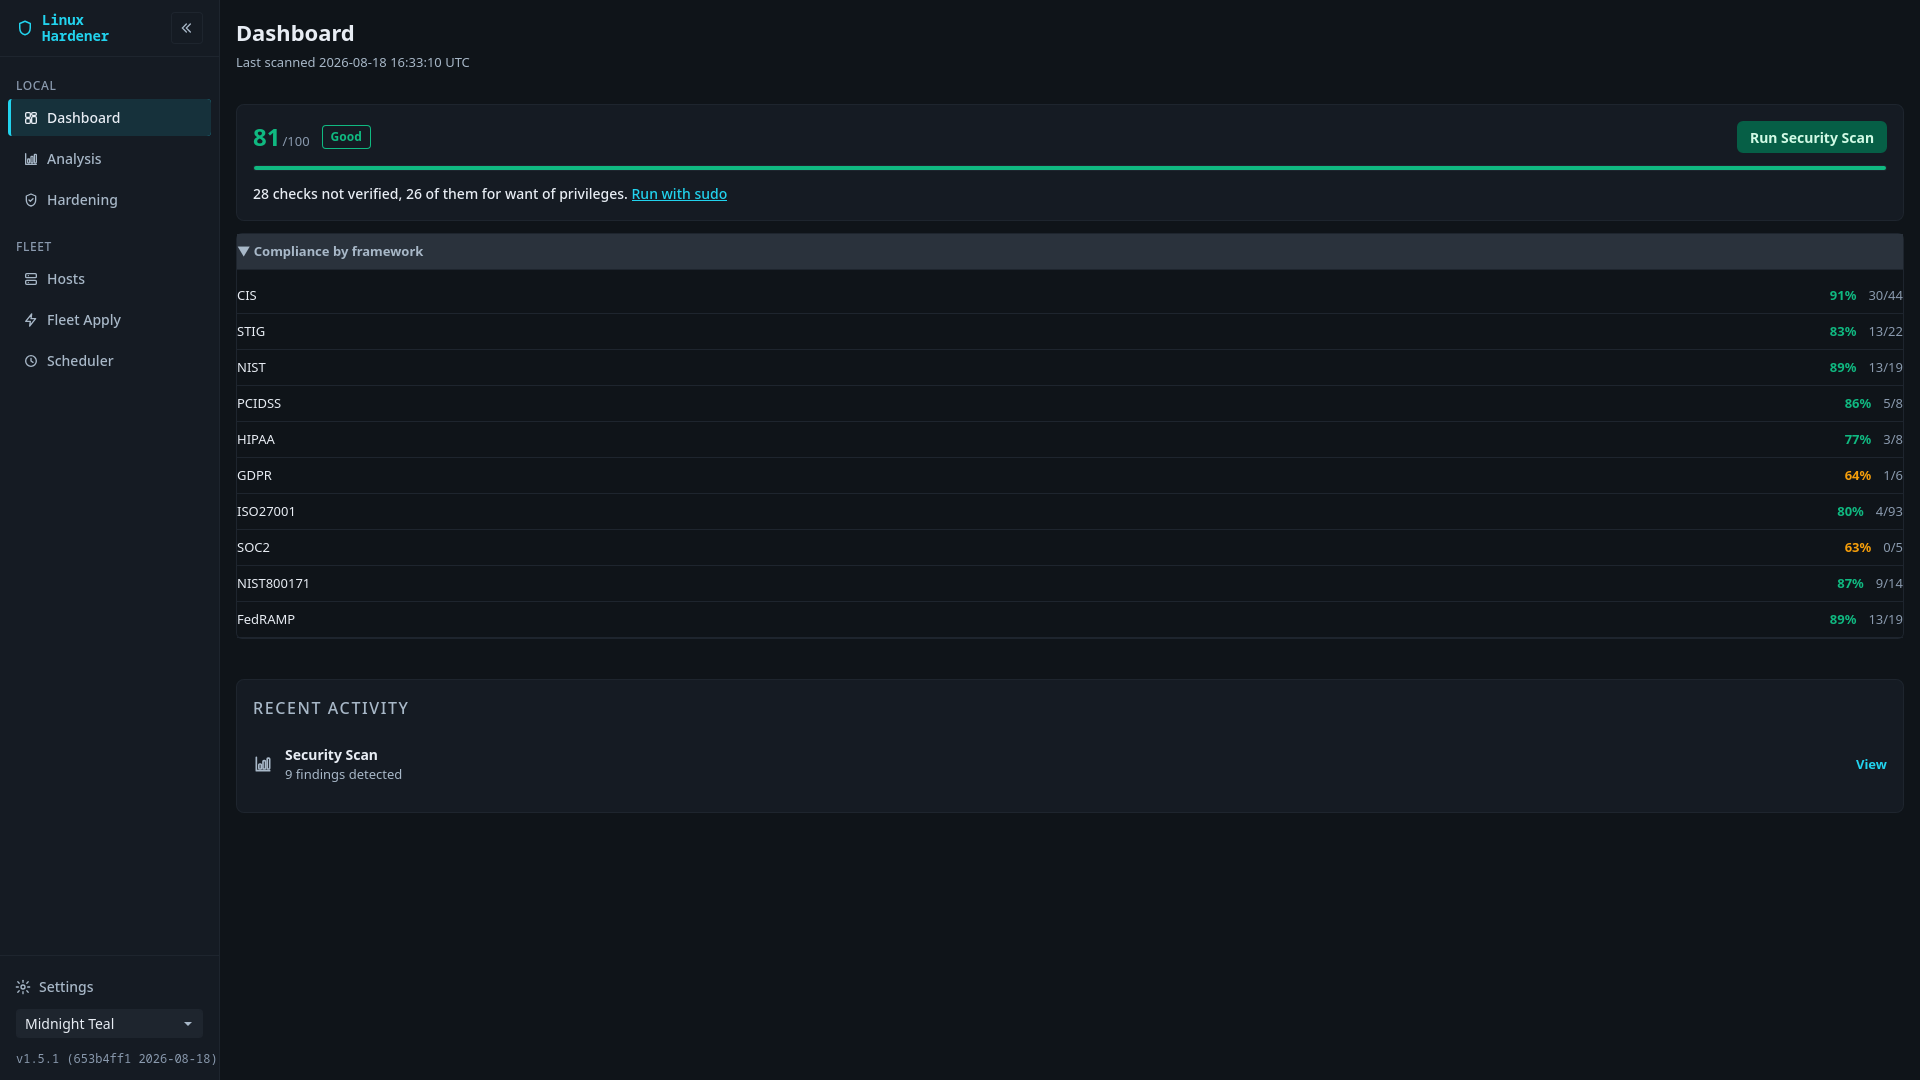
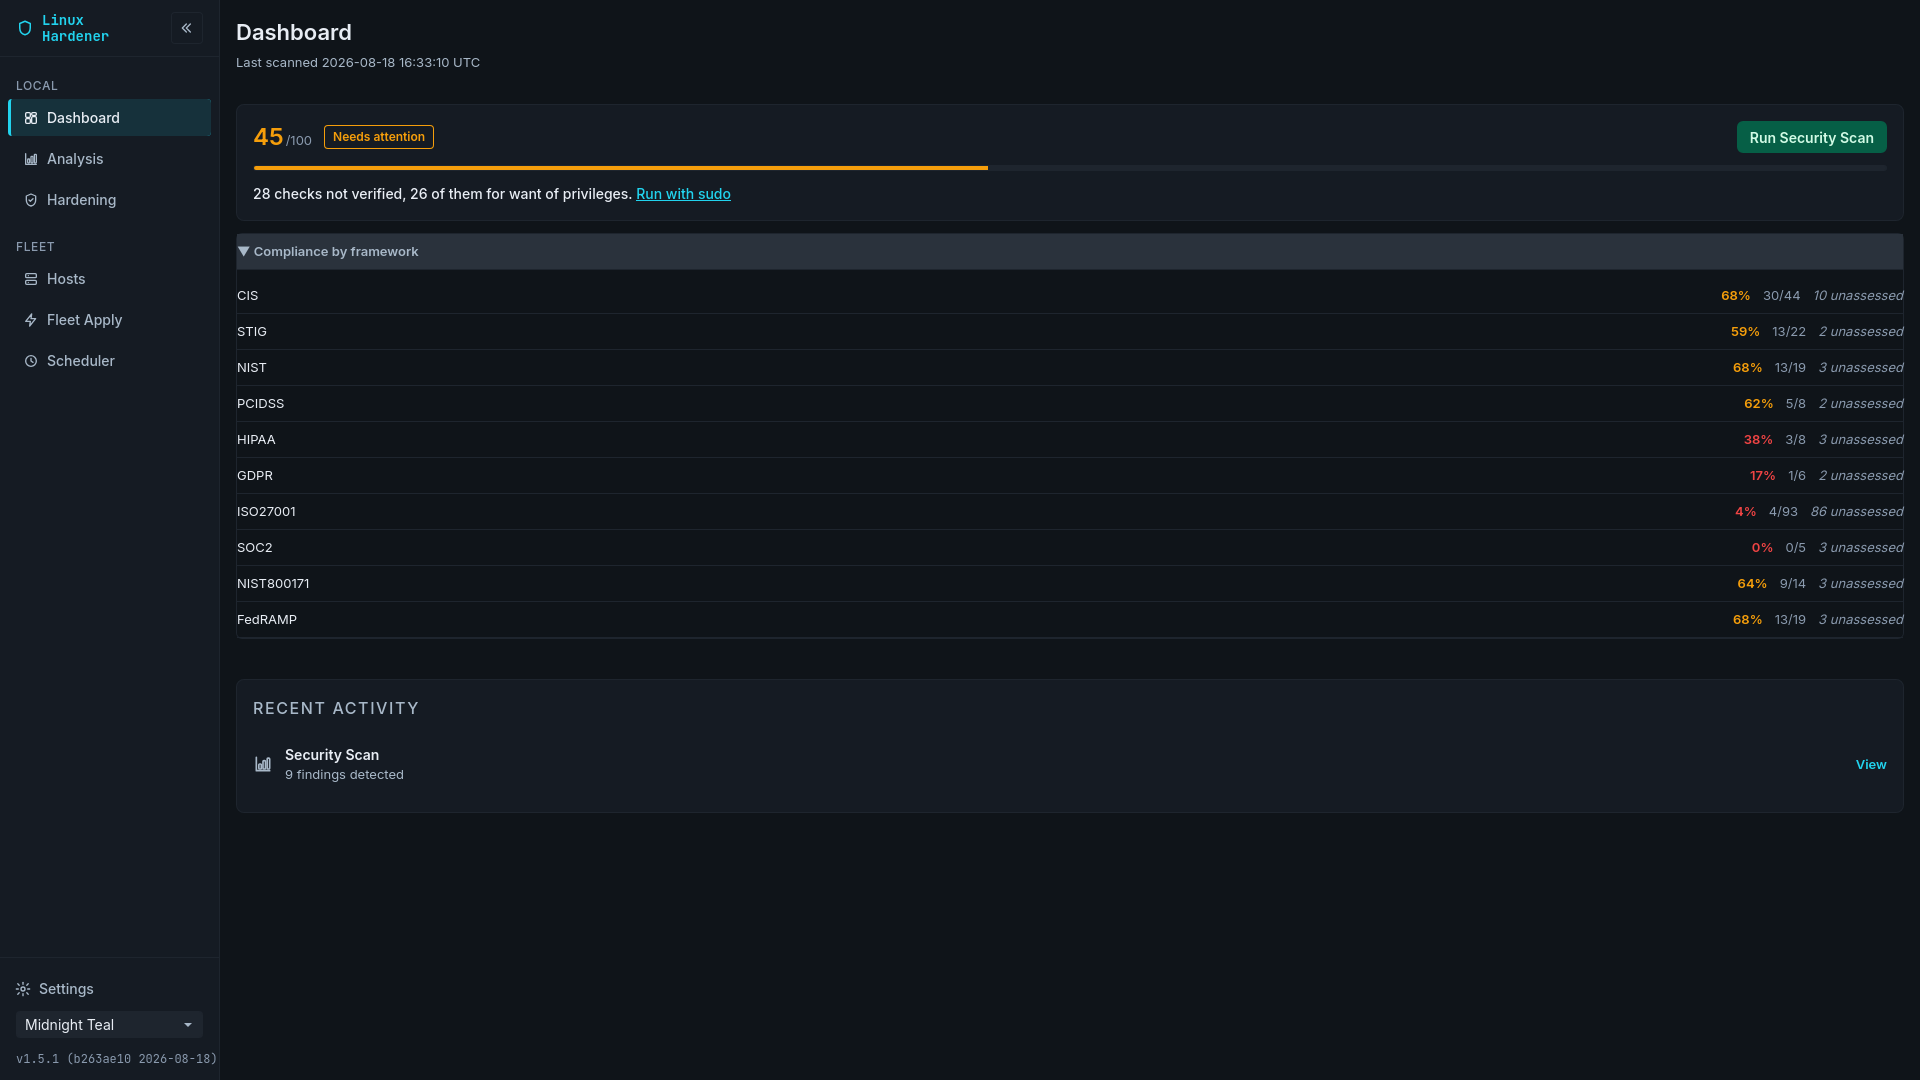
docs(screenshots): recapture the dashboard at the reconciled score
The compliance-score reconciliation changed what this screen renders, so
the published image showed figures the application can no longer produce.
Recaptured at b263ae10 in the headless sandbox, 1920x1080, Midnight Teal,
sidebar expanded and the compliance disclosure open, matching the other
twenty-two. Driven against a scratch XDG_CONFIG_HOME, so the file holding
personal data is never read.

It is the same scan as the image it replaces, which makes the pair a
before-and-after rather than two readings:

  hero        81/100 Good          ->  45/100 Needs attention
  SOC2        63% beside 0/5       ->  0%   0/5   3 unassessed
  ISO27001    80% beside 4/93      ->  4%   4/93  86 unassessed
  CIS         91% beside 30/44     ->  68%  30/44 10 unassessed

Every row's percentage now equals the fraction beside it. SOC 2 is the
case the graded scorer was always going to get wrong: a passing-looking
figure for a framework where nothing passed. ISO 27001 is the case the
unassessed count exists for, since 4 per cent alone reads as a failing
host when it is a statement about this build's coverage.

This image is also the fix's only end-to-end evidence. No Playwright case
asserts the dashboard's per-framework row, and the suite runs only inside
the containers, so the new markup is covered by nothing that executes.
Recorded as such in what-is-not-proven.md, whose known-stale note from the
previous commit is replaced rather than left to contradict the tree, along
[…]

diff --git a/docs/reference/what-is-not-proven.md b/docs/reference/what-is-not-proven.md
@@ -761,16 +761,25 @@ channels, and the toggle both on and off.
   that the path resolves, and an image that resolves is not an image that is
   current. The same drift starts accumulating from today.
 
-**And it began the same week. `dashboard.png` is known-stale, not merely
-old.** The compliance-score reconciliation landed after the capture: the
-dashboard's per-framework row used to read a graded score beside a binary
-fraction and now reads one number twice, and it carries an unassessed count
-that did not exist when the image was taken. So the published image shows a
-figure the application can no longer produce. This is a stronger claim than the
-one made about the four unphotographed routes above, which are **unmeasured**:
-here the render demonstrably changed, and the image was not recaptured because
-a capture needs the maintainer's consent. `analysis-compliance.png` is
-unaffected, since the compliance tab already read the report's score.
+**And it began the same week, and was closed the same day.** The
+compliance-score reconciliation landed after the 2026-08-18 capture and changed
+what that screen renders: the per-framework row used to print a graded score
+beside a binary fraction and now prints one number twice, with an unassessed
+count that did not exist when the image was taken. `dashboard.png` was
+**recaptured at `b263ae10`** in the same headless sandbox and against the same
+scratch `XDG_CONFIG_HOME`, so it is current rather than known-stale. The other
+twenty-two are untouched by that change, and `analysis-compliance.png` in
+particular, because the compliance tab already read the report's score.
+
+**The recapture is also the only end-to-end evidence the fix has.** No
+Playwright case asserts the dashboard's per-framework row, so the new markup is
+covered by nothing that executes; what the image shows is ten rows whose
+percentage equals the fraction beside it, driven by the real backend rather
+than the mock. The starkest pair is worth keeping in words, because the image
+is the only place it is recorded: SOC 2 read **63 per cent beside 0/5** before
+and reads **0 per cent** after, so the old dashboard published a passing-looking
+figure for a framework where nothing passed. ISO 27001 read 80 against 4/93 and
+now reads 4 with **86 unassessed** stated beside it.
 - What it does establish is the Scheduler notes from `a5ca6d03` and `3fcc75a8`,
   seen present with scheduled scanning off and absent with it on, in the real
   application against the real backend rather than through the Playwright mock.

diff --git a/CHANGELOG.md b/CHANGELOG.md
@@ -1781,9 +1781,16 @@ and this project adheres to [Semantic Versioning](https://semver.org/spec/v2.0.0
   50 and 95 against 75 - the two figures the module header had predicted in
   prose without anything asserting them - and they are the first assertions
   anywhere on `ManualReview`'s contribution to a score. **Every compliance
-  figure the desktop displays moves down**, and
-  `docs/assets/screenshots/dashboard.png` is stale as a result, recorded in
-  `what-is-not-proven.md`.
+  figure the desktop displays moves down**, so
+  `docs/assets/screenshots/dashboard.png` was recaptured in the headless
+  sandbox against the same scratch `XDG_CONFIG_HOME` the rest of the corpus
+  uses. That image is the fix's only end-to-end evidence, since no Playwright
+  case asserts this row: the hero moves from `81/100 Good` to `45/100 Needs
+  attention` on the same scan, and SOC 2 moves from **63 per cent beside 0/5**
+  to 0 per cent, which is the case the graded scorer was always going to get
+  wrong - a passing-looking figure for a framework where nothing passed. ISO
+  27001 moves from 80 against 4/93 to 4 with `86 unassessed` printed beside it,
+  which is what the new count is for.
 
 - **The Scheduler named eight hardening areas by their raw registry ids.** The
   checkbox group rendered the id itself as its label, so that screen read
